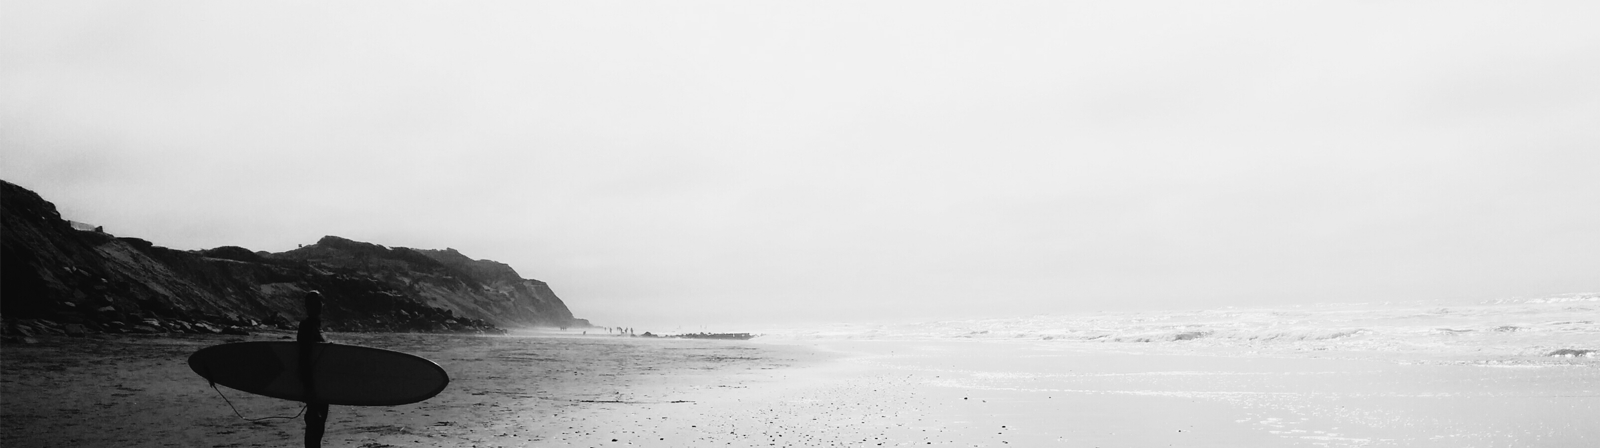
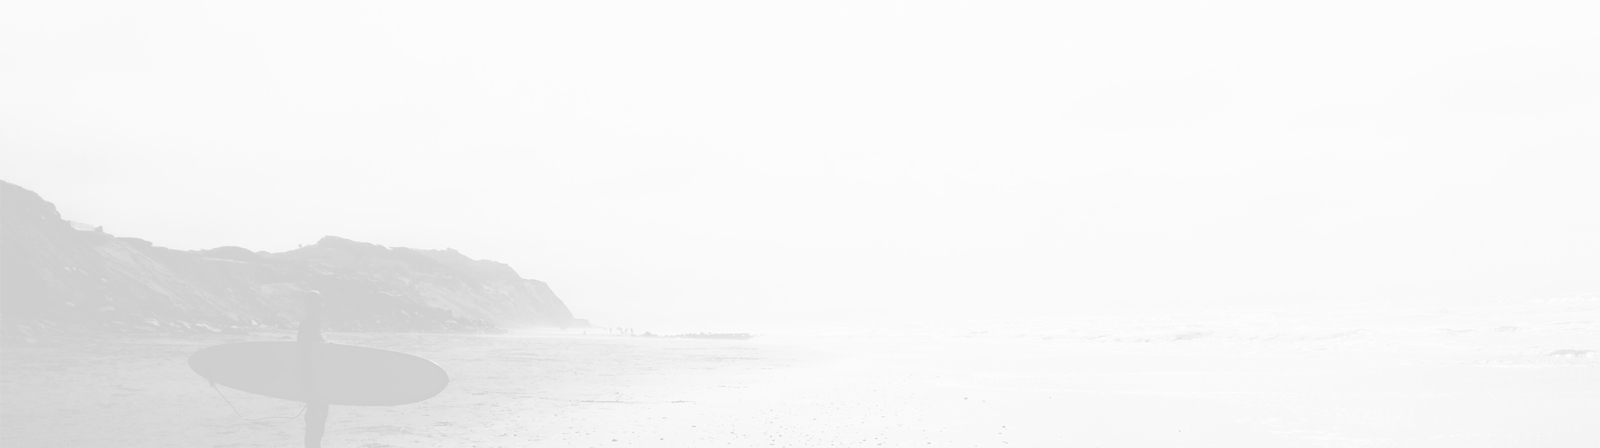
Added 1 html file, image files and updated index.html and style.scss

diff --git a/catalog.html b/catalog.html
@@ -38,45 +38,28 @@
     </header>
 
     <main>
-        <div class="intro">
-            <div class="container intro__inner">
-                <h1 class="intro__title">
-                    <span class="bolder">THE BRAND</span> OF&nbsp;LUXERIOUS <span class="pink">FASHION</span>
-                </h1>
+
+        <div class="heading">
+            <div class="container heading__inner">
+
+                <h2 class="heading__title">
+                    New Arrivals
+                </h2>
+                <div class="heading__breadcrumbs">
+                    <a class="heading__link" href="/">HOME</a> /
+                    <a class="heading__link" href="">MEN</a> /
+                    <a class="heading__link heading__link_active" href="">NEW ARRIVALS</a> 
+                </div>
+
             </div>
         </div>
-    
-        <section class="sections">
-            <div class="container sections__inner">
-    
-                <div class="sections__item sections__item_women">
-                    <p class="sections__suptitle">30% off</p>
-                    <h2 class="sections__title">for women</h2>
-                </div>
-                <div class="sections__item sections__item_men">
-                    <p class="sections__suptitle">hot deal</p>
-                    <h2 class="sections__title">for men</h2>
-                </div>
-                <div class="sections__item sections__item_kids">
-                    <p class="sections__suptitle">new arrivals</p>
-                    <h2 class="sections__title">for kids</h2>
-                </div>
-                <div class="sections__item sections__item_accesories">
-                    <p class="sections__suptitle">luxurious & trendy</p>
-                    <h2 class="sections__title">accesories</h2>
-                </div>
-    
-            </div>
-        </section>
-    
+
         <section class="products">
-            <h2 class="products__title">Fetured Items</h2>
-            <p class="products__subtitle">Shop for items based on what we featured in this week</p>
             <div class="container products__inner">
     
                 <article class="products__item">
                     <div class="products__img">
-                        <img src="img/products/product_1.jpg" alt="product 1">
+                        <img src="img/catalog/men/product_1.jpg" alt="product 1">
                         <div class="products__hover">
                             <button class="products__cart">
                                 <img src="img/products/cart.svg" alt="add to cart"> Add to Cart
@@ -91,7 +74,7 @@
                 </article>
                 <article class="products__item">
                     <div class="products__img">
-                        <img src="img/products/product_2.jpg" alt="product 2">
+                        <img src="img/catalog/men/product_2.jpg" alt="product 2">
                         <div class="products__hover">
                             <button class="products__cart">
                                 <img src="img/products/cart.svg" alt="add to cart"> Add to Cart
@@ -106,7 +89,7 @@
                 </article>
                 <article class="products__item">
                     <div class="products__img">
-                        <img src="img/products/product_3.jpg" alt="product 3">
+                        <img src="img/catalog/men/product_3.jpg" alt="product 3">
                         <div class="products__hover">
                             <button class="products__cart">
                                 <img src="img/products/cart.svg" alt="add to cart"> Add to Cart
@@ -121,7 +104,7 @@
                 </article>
                 <article class="products__item">
                     <div class="products__img">
-                        <img src="img/products/product_4.jpg" alt="product 4">
+                        <img src="img/catalog/men/product_4.jpg" alt="product 4">
                         <div class="products__hover">
                             <button class="products__cart">
                                 <img src="img/products/cart.svg" alt="add to cart"> Add to Cart
@@ -136,7 +119,7 @@
                 </article>
                 <article class="products__item">
                     <div class="products__img">
-                        <img src="img/products/product_5.jpg" alt="product 5">
+                        <img src="img/catalog/men/product_5.jpg" alt="product 5">
                         <div class="products__hover">
                             <button class="products__cart">
                                 <img src="img/products/cart.svg" alt="add to cart"> Add to Cart
@@ -151,7 +134,52 @@
                 </article>
                 <article class="products__item">
                     <div class="products__img">
-                        <img src="img/products/product_6.jpg" alt="product 6">
+                        <img src="img/catalog/men/product_6.jpg" alt="product 6">
+                        <div class="products__hover">
+                            <button class="products__cart">
+                                <img src="img/products/cart.svg" alt="add to cart"> Add to Cart
+                            </button>
+                        </div>
+                    </div>
+                    <div class="products__info">
+                        <a href=""><h3 class="products__heading">ELLERY X M'O CAPSULE</h3></a>
+                        <p class="products__text">Known for her sculptural takes on traditional tailoring, Australian arbiter of cool Kym Ellery teams up with Moda Operandi.</p>
+                        <p class="products__price">$52.00</p>
+                    </div>
+                </article>
+                <article class="products__item">
+                    <div class="products__img">
+                        <img src="img/catalog/men/product_7.jpg" alt="product 6">
+                        <div class="products__hover">
+                            <button class="products__cart">
+                                <img src="img/products/cart.svg" alt="add to cart"> Add to Cart
+                            </button>
+                        </div>
+                    </div>
+                    <div class="products__info">
+                        <a href=""><h3 class="products__heading">ELLERY X M'O CAPSULE</h3></a>
+                        <p class="products__text">Known for her sculptural takes on traditional tailoring, Australian arbiter of cool Kym Ellery teams up with Moda Operandi.</p>
+                        <p class="products__price">$52.00</p>
+                    </div>
+                </article>
+                <article class="products__item">
+                    <div class="products__img">
+                        <img src="img/catalog/men/product_8.jpg" alt="product 6">
+                        <div class="products__hover">
+                            <button class="products__cart">
+                                <img src="img/products/cart.svg" alt="add to cart"> Add to Cart
+                            </button>
+                        </div>
+                    </div>
+                    <div class="products__info">
+                        <a href=""><h3 class="products__heading">ELLERY X M'O CAPSULE</h3></a>
+                        <p class="products__text">Known for her sculptural takes on traditional tailoring, Australian arbiter of cool Kym Ellery teams up with Moda Operandi.</p>
+                        <p class="products__price">$52.00</p>
+                    </div>
+                </article>
+                <article class="products__item">
+                    <div class="products__img">
+                        <img src="img/catalog/men/product_9.jpg" alt="product 6">
                         <div class="products__hover">
                             <button class="products__cart">
                                 <img src="img/products/cart.svg" alt="add to cart"> Add to Cart
@@ -165,12 +193,9 @@
                     </div>
                 </article>
     
-            </div>
-            <div class="products__wrap">
-                <a class="products__btn" href="catalog.html">Browse All Product</a>
             </div>
         </section>
-    
+
         <section class="feature">
             <div class="container feature__inner">
     
@@ -211,6 +236,7 @@
     
             </div>
         </div>
+
     </main>
 
     <footer class="footer">

diff --git a/css/style.css b/css/style.css
@@ -75,6 +75,16 @@ table { border-collapse: collapse; border-spacing: 0; }
 
 .products__item { width: 360px; height: 581px; background-color: #f8f8f8; margin-bottom: 30px; }
 
+.products__img { position: relative; }
+
+.products__img:hover .products__hover { opacity: 1; -webkit-transition: all linear 0.2s; transition: all linear 0.2s; }
+
+.products__hover { width: 100%; height: 100%; display: -webkit-box; display: -ms-flexbox; display: flex; -webkit-box-pack: center; -ms-flex-pack: center; justify-content: center; -webkit-box-align: center; -ms-flex-align: center; align-items: center; position: absolute; top: 0; left: 0; background: rgba(58, 56, 56, 0.86); opacity: 0; -webkit-transition: all linear 0.1s; transition: all linear 0.1s; }
+
+.products__cart { display: -webkit-box; display: -ms-flexbox; display: flex; -webkit-box-align: center; -ms-flex-align: center; align-items: center; background: none; border: 1px solid #fff; font-family: "Lato", sans-serif; font-weight: 400; font-size: 14px; line-height: 17px; color: #ffffff; padding: 10px 13px; cursor: pointer; }
+
+.products__cart img { margin-right: 11px; }
+
 .products__info { padding: 25px 18px 20px; }
 
 .products__heading { font-family: "Lato", sans-serif; font-size: 13px; font-weight: 400; line-height: 16px; color: #000; margin-bottom: 13px; }
@@ -99,7 +109,7 @@ table { border-collapse: collapse; border-spacing: 0; }
 
 .feature__text { max-width: 316px; font-family: "Lato", sans-serif; font-size: 14px; font-weight: 300; line-height: 17px; color: #fbfbfb; }
 
-.subscribe { background: url(../img/subscribe/bg_img.jpg) center/cover no-repeat white; background-blend-mode: multiply; padding: 97px 0 156px; }
+.subscribe { background: url(../img/subscribe/bg_img.jpg) center/cover no-repeat rgba(244, 244, 244, 0.7); background-blend-mode: multiply; padding: 97px 0 156px; }
 
 .subscribe__inner { display: -webkit-box; display: -ms-flexbox; display: flex; -webkit-box-pack: justify; -ms-flex-pack: justify; justify-content: space-between; -webkit-box-align: center; -ms-flex-align: center; align-items: center; }
 
@@ -115,9 +125,7 @@ table { border-collapse: collapse; border-spacing: 0; }
 
 .subscribe__input { padding: 7px 22px; width: 256px; height: 49px; border: none; border-radius: 50px 0 0 50px; background: #e1e1e1; font-family: "Lato", sans-serif; font-weight: 400; font-size: 14px; line-height: 17px; color: #222224; opacity: 0.67; outline: none; }
 
-.subscribe__btn { width: 100px; height: 49px; border: none; border-radius: 0 50px 50px 0; background: #f16d7f; cursor: pointer; font-family: "Lato", sans-serif; font-weight: 400; font-size: 14px; line-height: 17px; color: #fff; -webkit-transition: all linear 0.1s; transition: all linear 0.1s; }
-
-.subscribe__btn:hover { background: #fff; color: #f16d7f; -webkit-transition: all linear 0.1s; transition: all linear 0.1s; }
+.subscribe__btn { width: 100px; height: 49px; border: none; border-radius: 0 50px 50px 0; background: #f16d7f; cursor: pointer; font-family: "Lato", sans-serif; font-weight: 400; font-size: 14px; line-height: 17px; color: #fff; }
 
 .footer { padding: 30px 0; background-color: #222224; }
 
@@ -136,4 +144,15 @@ table { border-collapse: collapse; border-spacing: 0; }
 .footer__icon:hover .footer__img { fill: #fff; -webkit-transition: all linear 0.1s; transition: all linear 0.1s; }
 
 .footer__img { fill: #000; -webkit-transition: all linear 0.1s; transition: all linear 0.1s; }
+
+/* catalog.html */
+.heading { padding: 60px 0; background: #f8f3f4; }
+
+.heading__inner { display: -webkit-box; display: -ms-flexbox; display: flex; -webkit-box-pack: justify; -ms-flex-pack: justify; justify-content: space-between; -webkit-box-align: center; -ms-flex-align: center; align-items: center; }
+
+.heading__title { font-family: "Lato", sans-serif; font-weight: 400; font-size: 24px; line-height: 29px; color: #f16d7f; text-transform: uppercase; }
+
+.heading__breadcrumbs, .heading .heading__link { font-family: "Lato", sans-serif; font-weight: 300; font-size: 14px; line-height: 17px; color: #636363; text-transform: uppercase; }
+
+.heading__breadcrumbs .heading__link_active, .heading .heading__link .heading__link_active { font-weight: 700; color: #f16d7f; }
 /*# sourceMappingURL=style.css.map */

diff --git a/scss/style.scss b/scss/style.scss
@@ -321,6 +321,47 @@ table {
     margin-bottom: 30px;
   }
 
+  &__img {
+    position: relative;
+    &:hover {
+      .products__hover {
+        opacity: 1;
+        transition: all linear 0.2s;
+      }
+    }
+  }
+
+  &__hover {
+    width: 100%;
+    height: 100%;
+    display: flex;
+    justify-content: center;
+    align-items: center;
+    position: absolute;
+    top: 0;
+    left: 0;
+    background: rgba(58, 56, 56, 0.86);
+    opacity: 0;
+    transition: all linear 0.1s;
+  }
+
+  &__cart {
+    display: flex;
+    align-items: center;
+    background: none;
+    border: 1px solid #fff;
+    font-family: $fontFamily;
+    font-weight: 400;
+    font-size: 14px;
+    line-height: 17px;
+    color: #ffffff;
+    padding: 10px 13px;
+    cursor: pointer;
+    img {
+      margin-right: 11px;
+    }
+  }
+
   &__info {
     padding: 25px 18px 20px;
   }
@@ -415,7 +456,7 @@ table {
 
 .subscribe {
   background: url(../img/subscribe/bg_img.jpg) center/cover no-repeat
-    rgb(255, 255, 255);
+    rgba(244, 244, 244, 0.7);
   background-blend-mode: multiply;
   padding: 97px 0 156px;
 
@@ -491,12 +532,6 @@ table {
     font-size: 14px;
     line-height: 17px;
     color: #fff;
-    transition: all linear 0.1s;
-    &:hover {
-      background: #fff;
-      color: #f16d7f;
-      transition: all linear 0.1s;
-    }
   }
 }
 
@@ -547,5 +582,41 @@ table {
   &__img {
     fill: #000;
     transition: all linear 0.1s;
+  }
+}
+
+/* catalog.html */
+.heading {
+  padding: 60px 0;
+  background: #f8f3f4;
+
+  &__inner {
+    display: flex;
+    justify-content: space-between;
+    align-items: center;
+  }
+
+  &__title {
+    font-family: $fontFamily;
+    font-weight: 400;
+    font-size: 24px;
+    line-height: 29px;
+    color: #f16d7f;
+    text-transform: uppercase;
+  }
+
+  &__breadcrumbs,
+  .heading__link {
+    font-family: $fontFamily;
+    font-weight: 300;
+    font-size: 14px;
+    line-height: 17px;
+    color: #636363;
+    text-transform: uppercase;
+
+    .heading__link_active {
+      font-weight: 700;
+      color: #f16d7f;
+    }
   }
 }
